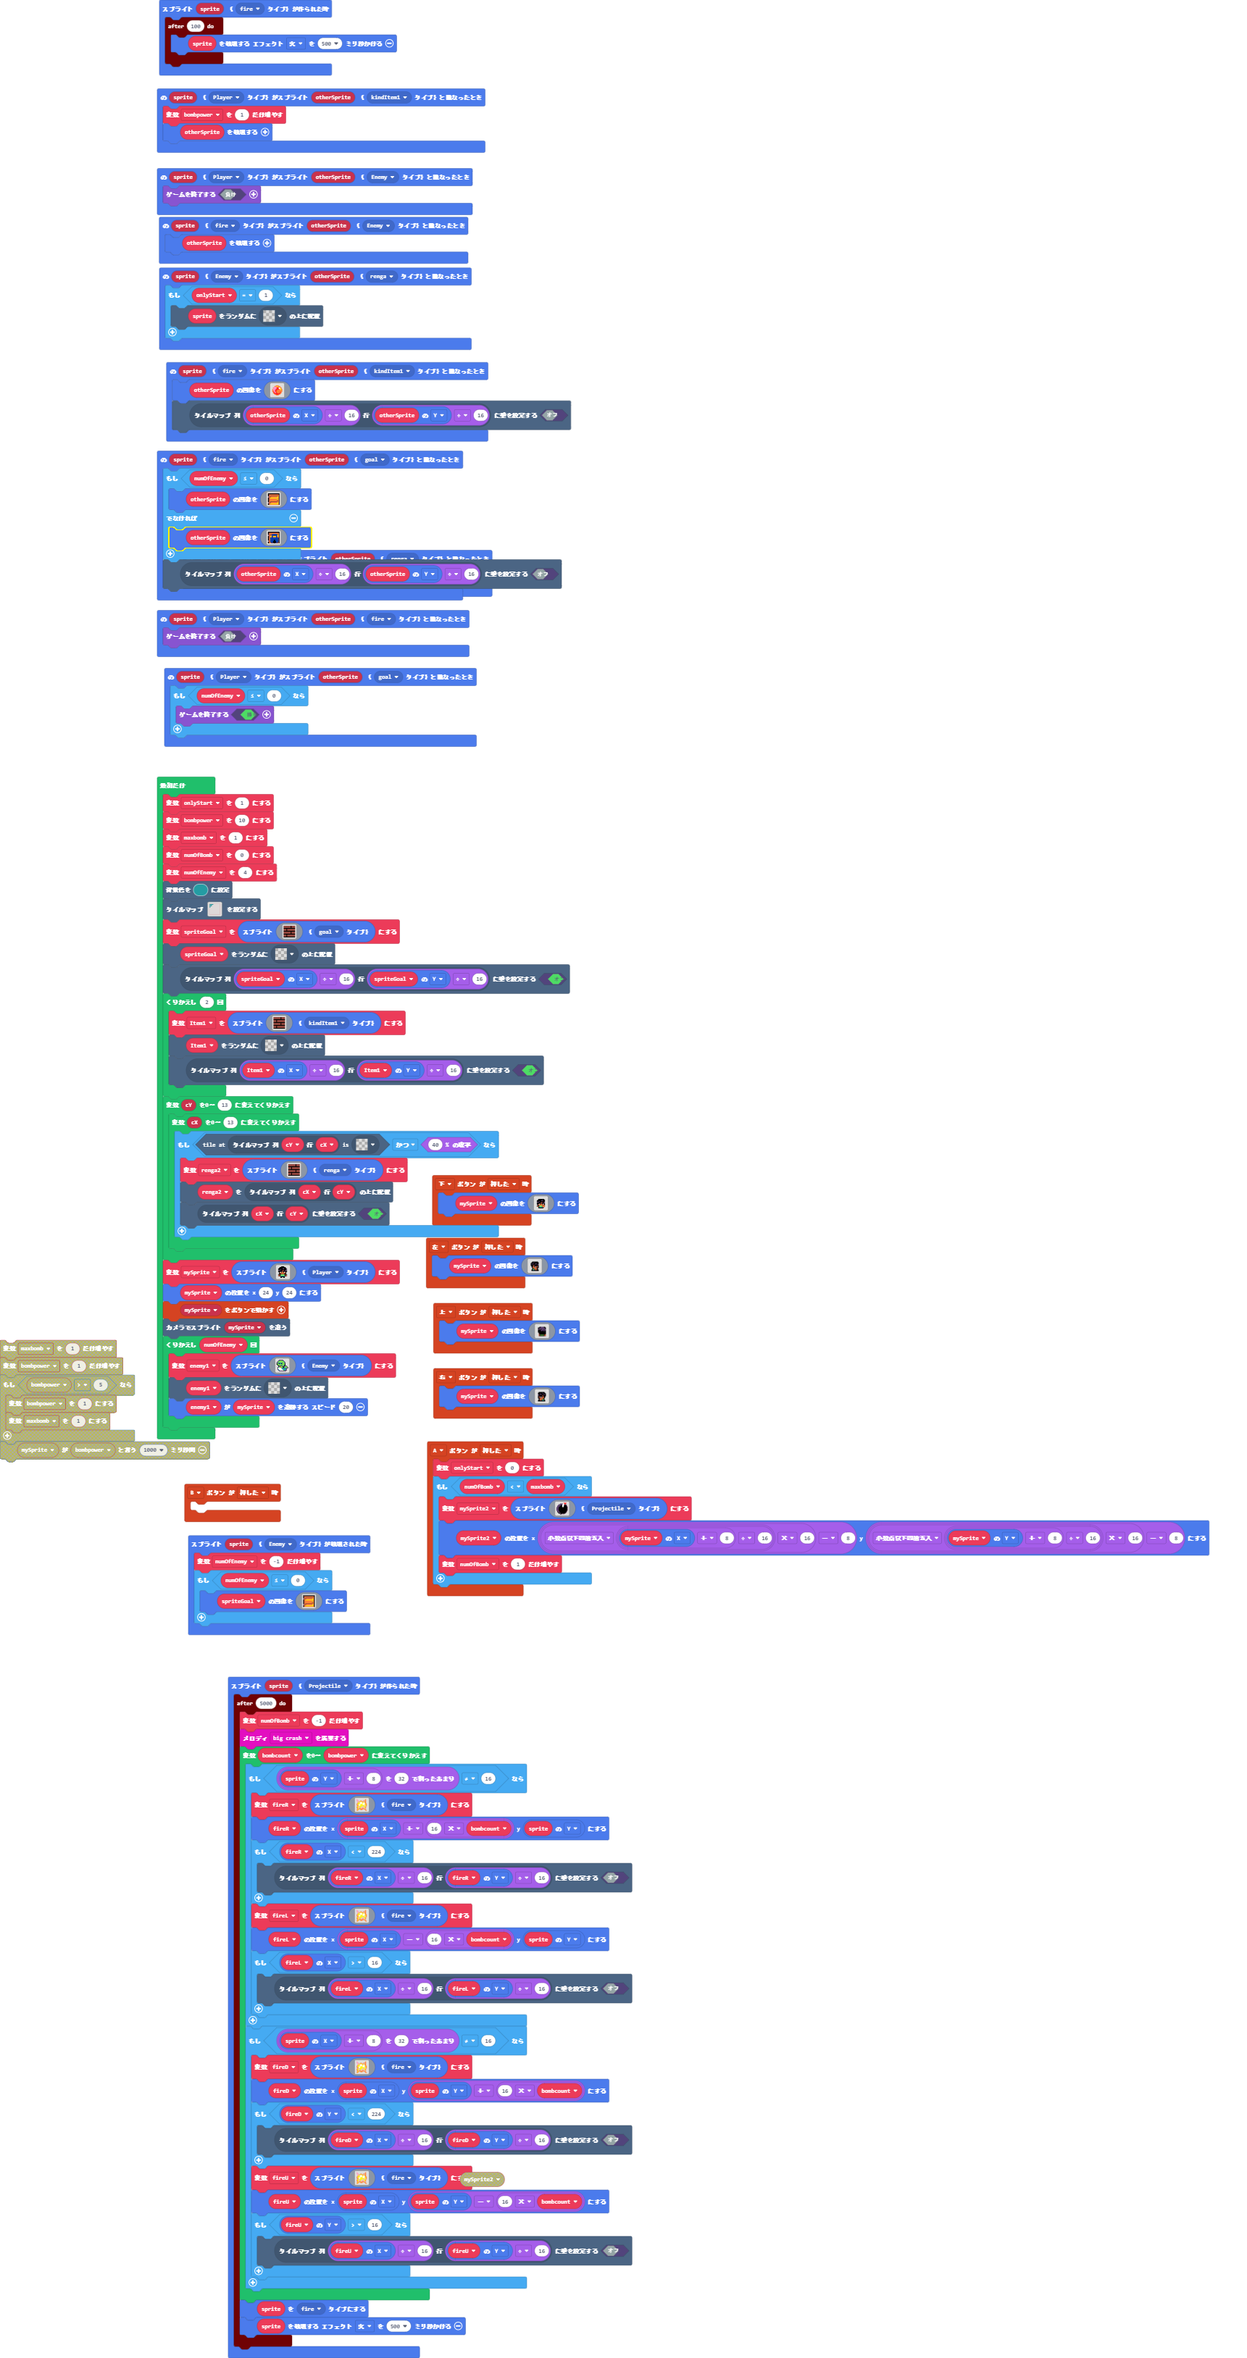
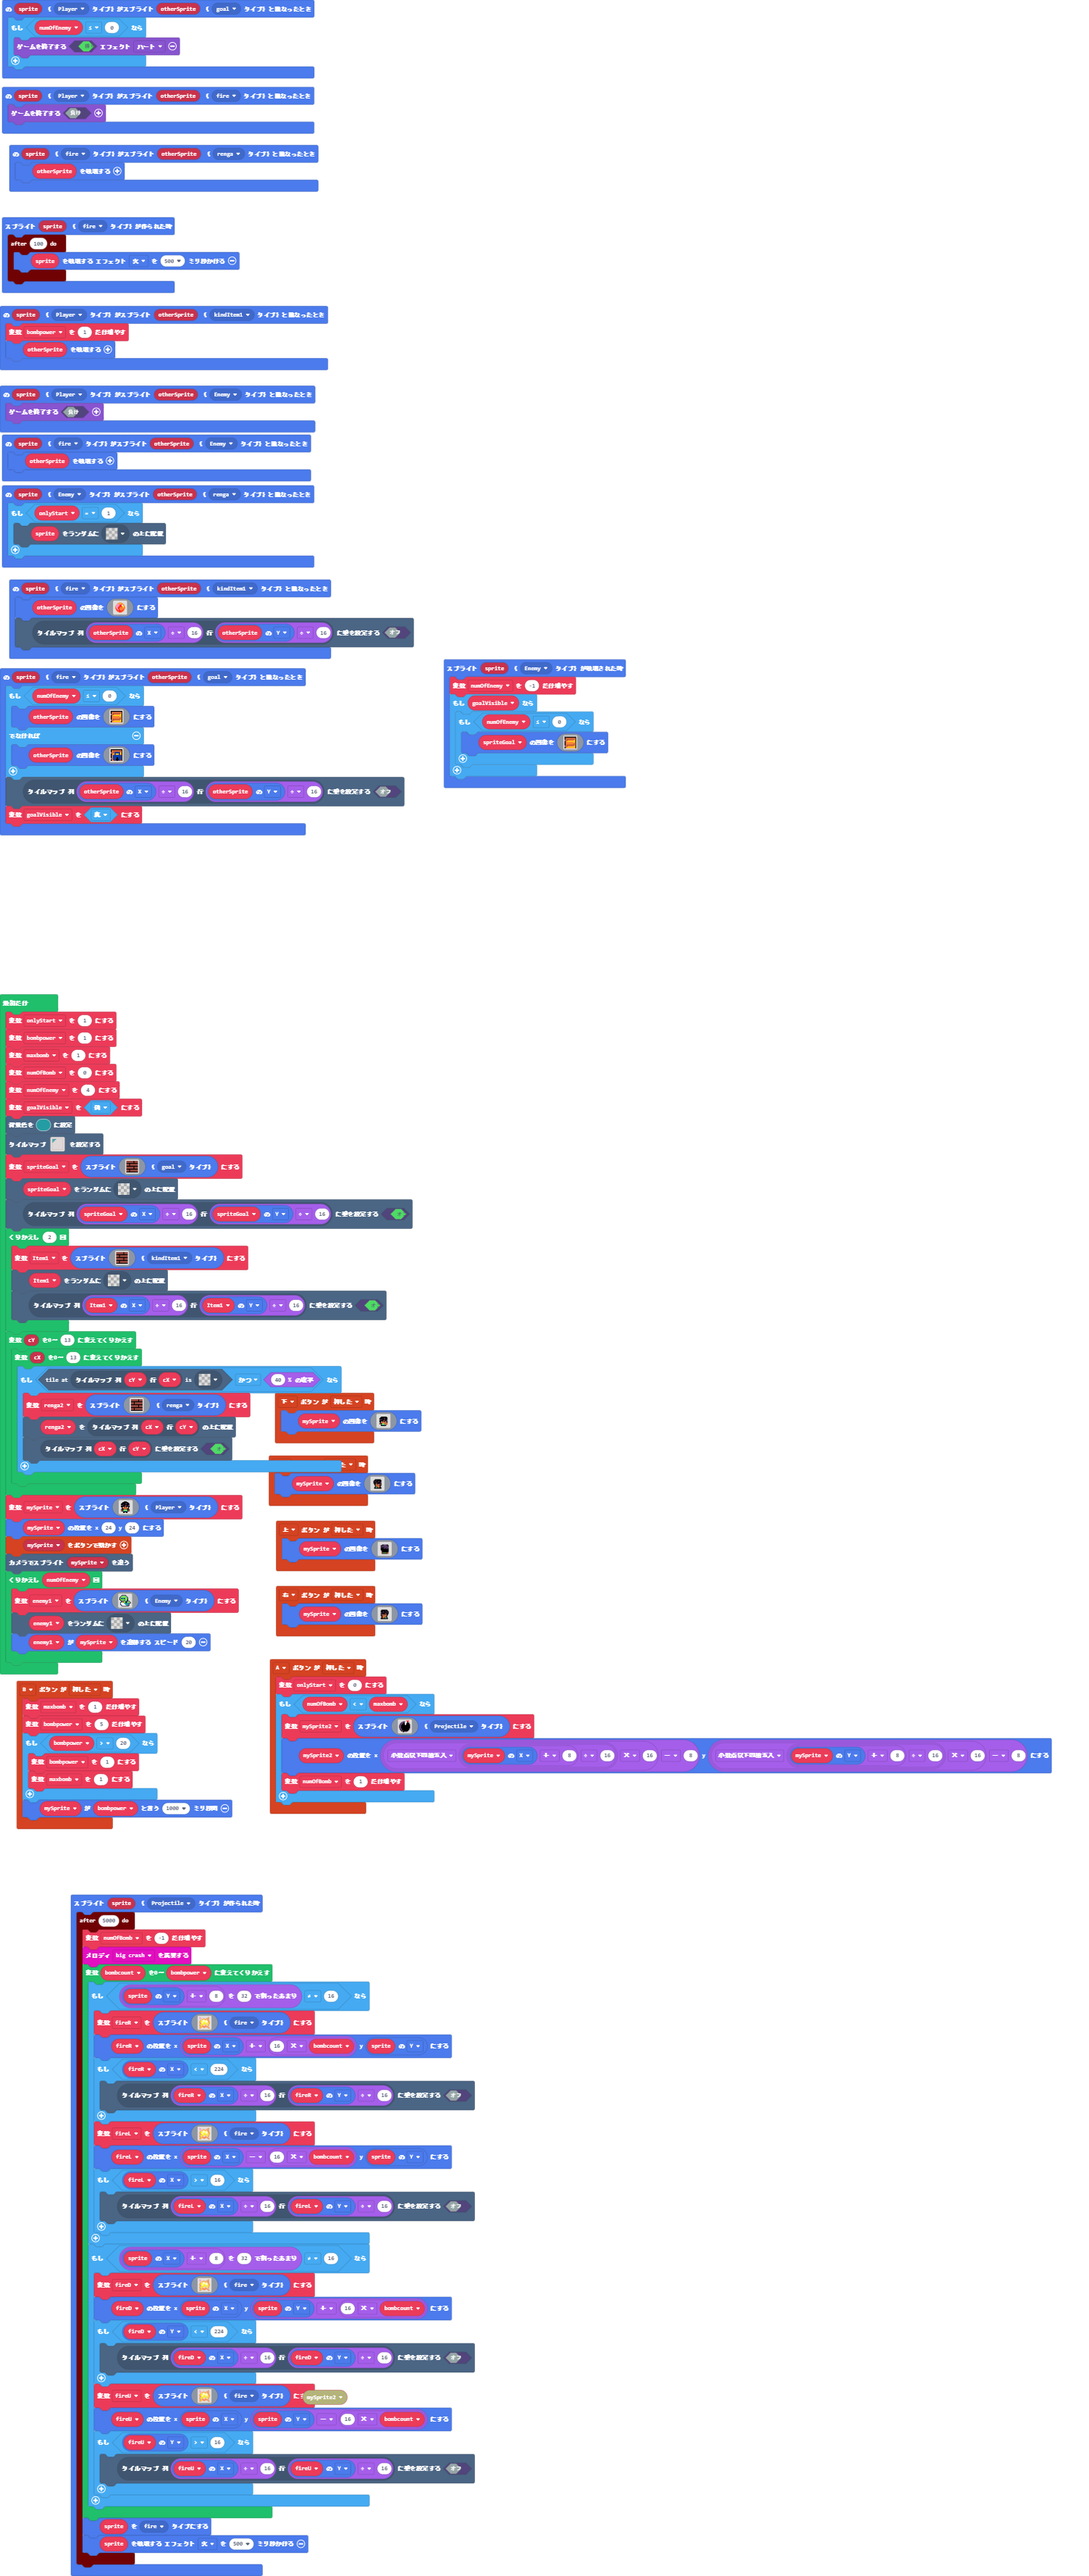
更新 main.blocks, main.ts

diff --git a/main.ts b/main.ts
@@ -57,22 +57,23 @@ sprites.onOverlap(SpriteKind.fire, SpriteKind.goal, function (sprite, otherSprit
             f f f f f f f f f f f f f f f f 
             f e e e e e e e e e e e e e e f 
             f e 4 4 4 4 4 4 4 4 4 4 4 4 4 f 
-            f e 4 e e e 8 8 8 8 8 8 e e 4 f 
-            b e 4 e 4 8 8 8 8 8 8 8 8 5 4 f 
+            f e 4 e e e c c c c c c e e 4 f 
+            b e 4 e 4 c 8 8 8 8 8 8 c 5 4 f 
             b e 4 e 4 8 c c c c c 8 c 5 4 f 
             f e 4 5 5 8 c 5 5 5 5 8 c 5 4 f 
             f e 4 4 4 8 c 4 4 4 4 8 c 4 4 f 
             f e 4 8 8 8 8 8 8 8 8 8 8 8 c f 
             f e 4 8 8 8 8 8 8 8 8 8 8 8 c f 
             f e 4 8 8 8 8 8 8 8 8 8 8 8 c f 
-            f e 4 8 8 8 8 8 f f 8 8 8 8 c f 
-            b e 4 8 8 8 8 8 f f 8 8 8 8 c f 
-            b e 4 8 8 8 8 f f f f 8 8 8 c f 
-            f e 4 c 8 8 8 f f f f 8 8 c c f 
+            f e 4 8 8 8 8 c f f 8 8 8 8 c f 
+            b e 4 8 8 8 8 c f f 8 8 8 8 c f 
+            b e 4 8 8 8 c f f f f 8 8 8 c f 
+            f e 4 c 8 8 c f f f f 8 8 c c f 
             f e 4 4 c c c c f f c c c c 4 f 
             `)
     }
     tiles.setWallAt(tiles.getTileLocation(otherSprite.x / 16, otherSprite.y / 16), false)
+    goalVisible = true
 })
 sprites.onCreated(SpriteKind.fire, function (sprite) {
     timer.after(100, function () {
@@ -150,7 +151,13 @@ controller.left.onEvent(ControllerButtonEvent.Pressed, function () {
         `)
 })
 controller.B.onEvent(ControllerButtonEvent.Pressed, function () {
-	
+    maxbomb += 1
+    bombpower += 5
+    if (bombpower > 20) {
+        bombpower = 1
+        maxbomb = 1
+    }
+    mySprite.say(bombpower, 1000)
 })
 sprites.onOverlap(SpriteKind.Enemy, SpriteKind.renga, function (sprite, otherSprite) {
     if (onlyStart == 1) {
@@ -159,7 +166,7 @@ sprites.onOverlap(SpriteKind.Enemy, SpriteKind.renga, function (sprite, otherSpr
 })
 sprites.onOverlap(SpriteKind.Player, SpriteKind.goal, function (sprite, otherSprite) {
     if (numOfEnemy <= 0) {
-        game.over(true)
+        game.over(true, effects.hearts)
     }
 })
 controller.up.onEvent(ControllerButtonEvent.Pressed, function () {
@@ -286,25 +293,27 @@ sprites.onCreated(SpriteKind.Projectile, function (sprite) {
 })
 sprites.onDestroyed(SpriteKind.Enemy, function (sprite) {
     numOfEnemy += -1
-    if (numOfEnemy <= 0) {
-        spriteGoal.setImage(img`
-            f f f f f f f f f f f f f f f f 
-            f e e e e e e e e e e e e e e f 
-            f e 4 4 4 4 4 4 4 4 4 4 4 4 4 f 
-            f e 4 e e e e e e e e e e e 4 f 
-            b e 4 e 4 4 4 4 4 4 4 4 4 5 4 f 
-            b e 4 e 4 4 4 4 4 4 4 4 4 5 4 f 
-            f e 4 5 5 5 5 5 5 5 5 5 5 5 4 f 
-            f e 4 4 4 4 4 4 4 4 4 4 4 4 4 f 
-            f e 4 4 4 4 4 4 4 4 4 4 5 5 4 f 
-            f e 4 4 4 4 4 4 4 4 4 4 e e 4 f 
-            f e 4 4 4 4 4 4 4 4 4 4 4 4 4 f 
-            f e 4 e e e e e e e e e e e 4 f 
-            b e 4 e 4 4 4 4 4 4 4 4 4 5 4 f 
-            b e 4 e 4 4 4 4 4 4 4 4 4 5 4 f 
-            f e 4 5 5 5 5 5 5 5 5 5 5 5 4 f 
-            f e 4 4 4 4 4 4 4 4 4 4 4 4 4 f 
-            `)
+    if (goalVisible) {
+        if (numOfEnemy <= 0) {
+            spriteGoal.setImage(img`
+                f f f f f f f f f f f f f f f f 
+                f e e e e e e e e e e e e e e f 
+                f e 4 4 4 4 4 4 4 4 4 4 4 4 4 f 
+                f e 4 e e e e e e e e e e e 4 f 
+                b e 4 e 4 4 4 4 4 4 4 4 4 5 4 f 
+                b e 4 e 4 4 4 4 4 4 4 4 4 5 4 f 
+                f e 4 5 5 5 5 5 5 5 5 5 5 5 4 f 
+                f e 4 4 4 4 4 4 4 4 4 4 4 4 4 f 
+                f e 4 4 4 4 4 4 4 4 4 4 5 5 4 f 
+                f e 4 4 4 4 4 4 4 4 4 4 e e 4 f 
+                f e 4 4 4 4 4 4 4 4 4 4 4 4 4 f 
+                f e 4 e e e e e e e e e e e 4 f 
+                b e 4 e 4 4 4 4 4 4 4 4 4 5 4 f 
+                b e 4 e 4 4 4 4 4 4 4 4 4 5 4 f 
+                f e 4 5 5 5 5 5 5 5 5 5 5 5 4 f 
+                f e 4 4 4 4 4 4 4 4 4 4 4 4 4 f 
+                `)
+        }
     }
 })
 sprites.onOverlap(SpriteKind.Player, SpriteKind.Enemy, function (sprite, otherSprite) {
@@ -345,16 +354,18 @@ let mySprite: Sprite = null
 let renga2: Sprite = null
 let Item1: Sprite = null
 let spriteGoal: Sprite = null
+let goalVisible = false
 let numOfEnemy = 0
 let numOfBomb = 0
 let maxbomb = 0
 let bombpower = 0
 let onlyStart = 0
 onlyStart = 1
-bombpower = 10
+bombpower = 1
 maxbomb = 1
 numOfBomb = 0
 numOfEnemy = 4
+goalVisible = false
 scene.setBackgroundColor(6)
 tiles.setTilemap(tilemap`レベル1`)
 spriteGoal = sprites.create(img`
